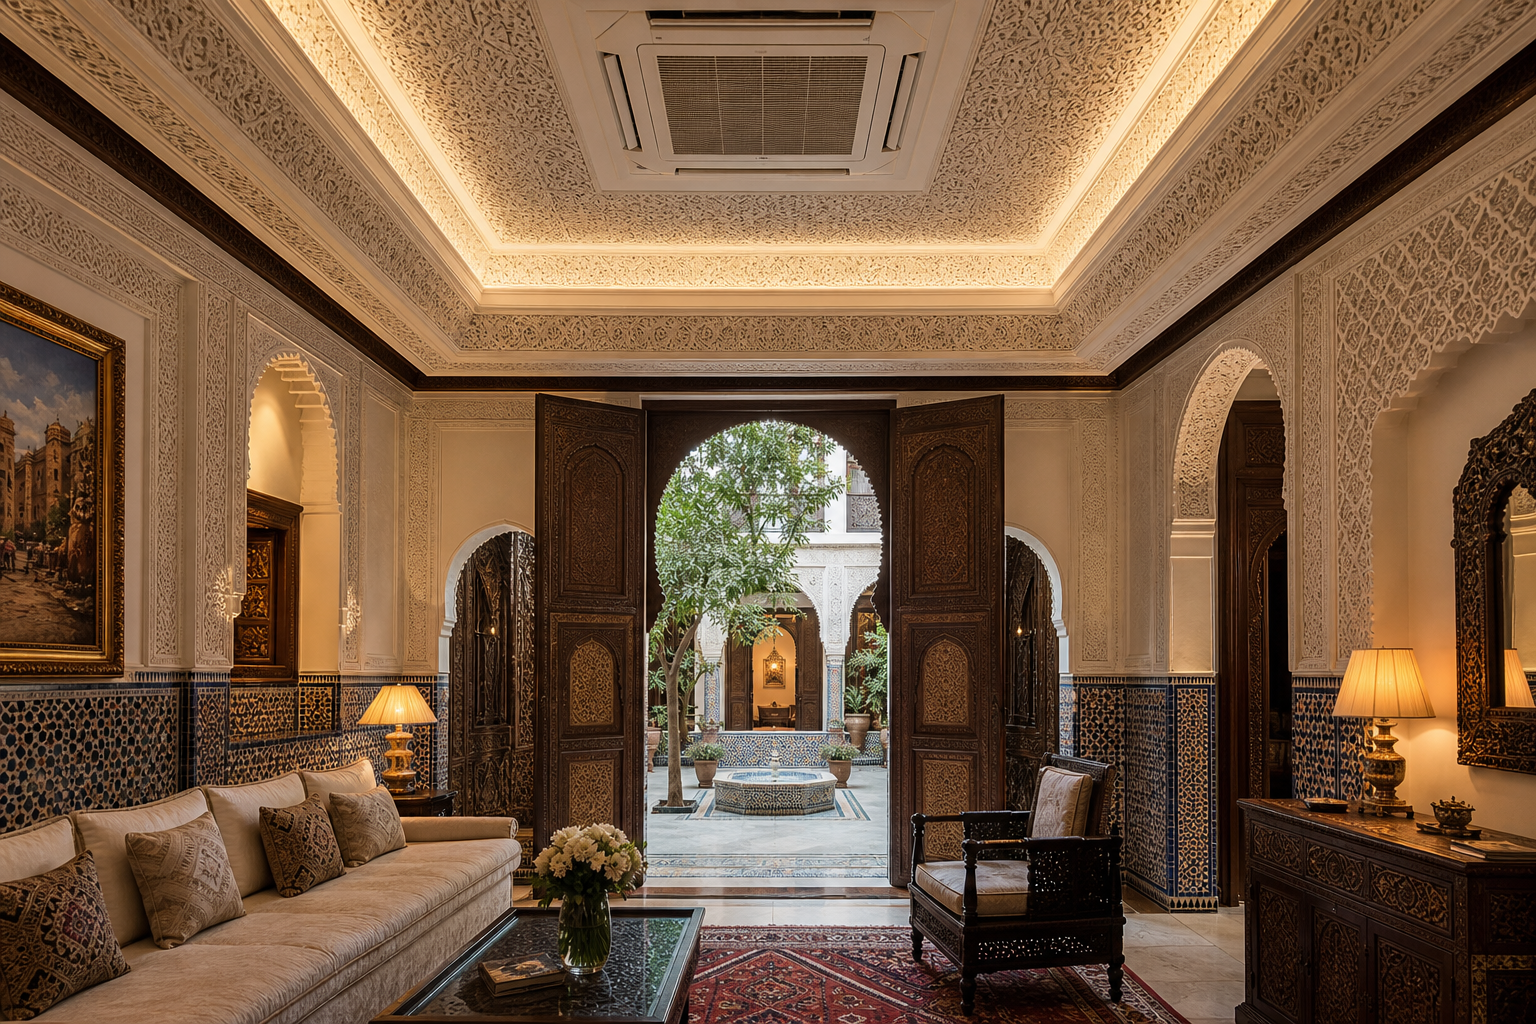
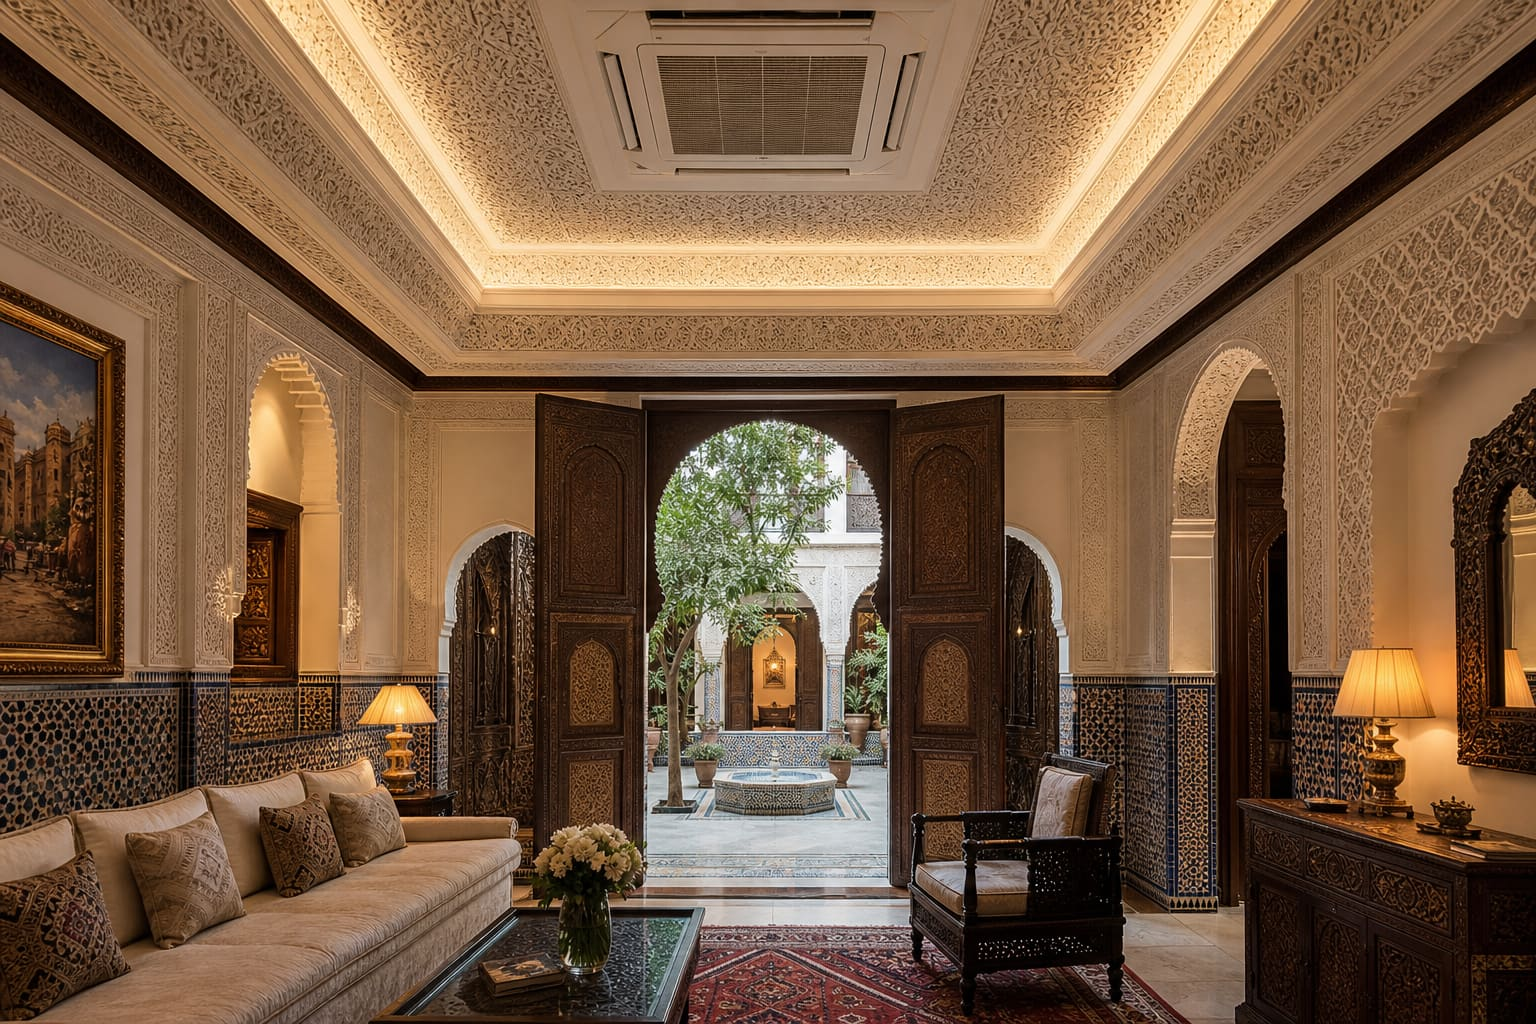
perf: optimize images, hero carousel, and defer non-critical widgets

Changed region(s): [[0.75, 0.7812, 0.7812, 0.8438], [0.1875, 0.6562, 0.2188, 0.7188], [0.9375, 0.6562, 0.9688, 0.6875]]

diff --git a/components/hero/HeroCarousel.tsx b/components/hero/HeroCarousel.tsx
@@ -1,6 +1,7 @@
 "use client";
 
 import Link from "next/link";
+import Image from "next/image";
 import { useEffect, useState, useCallback } from "react";
 import useEmblaCarousel from "embla-carousel-react";
 import Autoplay from "embla-carousel-autoplay";
@@ -31,65 +32,77 @@ export function HeroCarousel() {
     <section className="relative h-[100svh] min-h-[640px] w-full overflow-hidden bg-ink text-bone">
       <div ref={emblaRef} className="h-full overflow-hidden">
         <div className="flex h-full">
-          {heroSlides.map((slide) => (
-            <article
-              key={slide.id}
-              className="relative h-full w-full shrink-0 grow-0 basis-full"
-            >
-              <img
-                src={slide.image}
-                alt={slide.imageAlt}
-                className="absolute inset-0 h-full w-full object-cover"
-                loading="eager"
-              />
-              <div className="absolute inset-0 bg-gradient-to-b from-ink/40 via-ink/30 to-ink" />
-              <div className="absolute inset-0 bg-gradient-ink" />
+          {heroSlides.map((slide, index) => {
+            const isNear = Math.abs(index - selected) <= 1;
 
-              <div className="relative z-10 flex h-full flex-col justify-end pb-24 md:pb-32">
-                <div className="container mx-auto px-4 sm:px-6 lg:px-8">
-                  <div className="max-w-3xl">
-                    <div
-                      dir="rtl"
-                      className="mb-5 inline-flex items-center gap-2 rounded-full border border-sand-400/40 bg-ink/50 px-4 py-2 backdrop-blur"
-                    >
-                      <span className="font-arabic text-sm font-semibold text-sand-300 md:text-base">
-                        {slide.badgeAr}
-                      </span>
-                    </div>
+            return (
+              <article
+                key={slide.id}
+                className="relative h-full w-full shrink-0 grow-0 basis-full"
+              >
+                {isNear ? (
+                  <Image
+                    src={slide.image}
+                    alt={slide.imageAlt}
+                    fill
+                    priority={index === 0}
+                    loading={index === 0 ? "eager" : "lazy"}
+                    sizes="100vw"
+                    className="object-cover"
+                  />
+                ) : (
+                  <div className="absolute inset-0 bg-ink" aria-hidden />
+                )}
+                <div className="absolute inset-0 bg-gradient-to-b from-ink/40 via-ink/30 to-ink" />
+                <div className="absolute inset-0 bg-gradient-ink" />
 
-                    <h1 className="font-display text-4xl leading-[1.05] tracking-tight text-bone md:text-6xl lg:text-7xl">
-                      {slide.titleFr}
-                    </h1>
-                    <p className="mt-5 max-w-xl text-base text-bone/80 md:text-lg">
-                      {slide.subtitleFr}
-                    </p>
-                    <div className="mt-8 flex flex-wrap gap-3">
-                      <Link
-                        href={slide.ctaPrimary.href}
-                        className="inline-flex h-14 items-center rounded-full bg-brand px-7 text-sm font-semibold text-white shadow-xl shadow-brand/30 transition hover:bg-brand-600"
+                <div className="relative z-10 flex h-full flex-col justify-end pb-24 md:pb-32">
+                  <div className="container mx-auto px-4 sm:px-6 lg:px-8">
+                    <div className="max-w-3xl">
+                      <div
+                        dir="rtl"
+                        className="mb-5 inline-flex items-center gap-2 rounded-full border border-sand-400/40 bg-ink/50 px-4 py-2 backdrop-blur"
                       >
-                        {slide.ctaPrimary.label}
-                      </Link>
-                      <a
-                        href={whatsappContactUrl("expert")}
-                        target="_blank"
-                        rel="noopener noreferrer"
-                        className="inline-flex h-14 items-center gap-2 rounded-full border border-bone/30 bg-bone/5 px-7 text-sm font-semibold text-bone backdrop-blur transition hover:bg-bone/10"
-                      >
-                        <MessageCircle className="h-4 w-4" />
-                        Parler à un Expert
-                      </a>
+                        <span className="font-arabic text-sm font-semibold text-sand-300 md:text-base">
+                          {slide.badgeAr}
+                        </span>
+                      </div>
+
+                      <h1 className="font-display text-4xl leading-[1.05] tracking-tight text-bone md:text-6xl lg:text-7xl">
+                        {slide.titleFr}
+                      </h1>
+                      <p className="mt-5 max-w-xl text-base text-bone/80 md:text-lg">
+                        {slide.subtitleFr}
+                      </p>
+                      <div className="mt-8 flex flex-wrap gap-3">
+                        <Link
+                          href={slide.ctaPrimary.href}
+                          className="inline-flex h-14 items-center rounded-full bg-brand px-7 text-sm font-semibold text-white shadow-xl shadow-brand/30 transition hover:bg-brand-600"
+                        >
+                          {slide.ctaPrimary.label}
+                        </Link>
+                        <a
+                          href={whatsappContactUrl("expert")}
+                          target="_blank"
+                          rel="noopener noreferrer"
+                          className="inline-flex h-14 items-center gap-2 rounded-full border border-bone/30 bg-bone/5 px-7 text-sm font-semibold text-bone backdrop-blur transition hover:bg-bone/10"
+                        >
+                          <MessageCircle className="h-4 w-4" />
+                          Parler à un Expert
+                        </a>
+                      </div>
                     </div>
                   </div>
                 </div>
-              </div>
-            </article>
-          ))}
+              </article>
+            );
+          })}
         </div>
       </div>
 
       <div className="absolute bottom-8 left-1/2 z-20 flex -translate-x-1/2 items-center gap-3">
         <button
+          type="button"
           aria-label="Précédent"
           onClick={() => emblaApi?.scrollPrev()}
           className="inline-flex h-11 w-11 items-center justify-center rounded-full border border-bone/30 bg-ink/40 text-bone backdrop-blur hover:bg-ink/60"
@@ -100,6 +113,7 @@ export function HeroCarousel() {
           {heroSlides.map((s, i) => (
             <button
               key={s.id}
+              type="button"
               aria-label={`Aller au slide ${i + 1}`}
               onClick={() => emblaApi?.scrollTo(i)}
               className={cn(
@@ -110,6 +124,7 @@ export function HeroCarousel() {
           ))}
         </div>
         <button
+          type="button"
           aria-label="Suivant"
           onClick={() => emblaApi?.scrollNext()}
           className="inline-flex h-11 w-11 items-center justify-center rounded-full border border-bone/30 bg-ink/40 text-bone backdrop-blur hover:bg-ink/60"

diff --git a/app/page.tsx b/app/page.tsx
@@ -28,21 +28,21 @@ const categories = [
     title: "Énergie Solaire",
     eyebrow: "Tier 1 · Hybrides · Lithium",
     description: "Panneaux premium, onduleurs Huawei, batteries Pylontech.",
-    image: "https://images.unsplash.com/photo-1509391366360-2e959784a276?w=1600&q=80",
+    image: "/img/solaire/panels/panneau-tier1-hero.jpg",
     href: "/energie-solaire",
   },
   {
     title: "Piscines & Villa",
     eyebrow: "Construction · Rénovation",
     description: "Piscines à débordement, rénovation totale, délais respectés.",
-    image: "https://images.unsplash.com/photo-1572331165267-854da2b10ccc?w=1600&q=80",
+    image: "/img/products/piscine/construction/piscine-debordement.jpg",
     href: "/services/piscine",
   },
   {
     title: "Traitement d'Eau",
     eyebrow: "Adoucisseurs · Osmose · UV",
     description: "Eau pure dans toute la villa — santé et durabilité.",
-    image: "https://images.unsplash.com/photo-1559827260-dc66d52bef19?w=1600&q=80",
+    image: "/img/products/traitement-eau/adoucisseur-villa.jpg",
     href: "/services/traitement-eau",
   },
 ];
@@ -101,10 +101,12 @@ export default function HomePage() {
                 href={cat.href}
                 className="group relative aspect-[3/4] overflow-hidden rounded-3xl bg-ink"
               >
-                <img
+                <Image
                   src={cat.image}
                   alt={cat.title}
-                  className="absolute inset-0 h-full w-full object-cover transition duration-700 group-hover:scale-110"
+                  fill
+                  sizes="(max-width: 640px) 100vw, (max-width: 1024px) 50vw, 25vw"
+                  className="object-cover transition duration-700 group-hover:scale-110"
                   loading="lazy"
                 />
                 <div className="absolute inset-0 bg-gradient-to-b from-transparent via-ink/30 to-ink/95" />

diff --git a/app/layout.tsx b/app/layout.tsx
@@ -4,15 +4,12 @@ import "./globals.css";
 import { Header } from "@/components/layout/Header";
 import { Footer } from "@/components/layout/Footer";
 import { FloatingWhatsApp } from "@/components/layout/FloatingWhatsApp";
-import { CookieBanner } from "@/components/layout/CookieBanner";
 import { CartDrawer } from "@/components/cart/CartDrawer";
 import { JsonLd } from "@/components/seo/JsonLd";
 import { buildMetadata, localBusinessJsonLd } from "@/lib/seo";
 import { BackButtonWrapper } from "@/components/ui/BackButtonWrapper";
-import { StickyMobileCTA } from "@/components/cro/StickyMobileCTA";
-import { ExitIntent } from "@/components/cro/ExitIntent";
-import { SocialProofLive } from "@/components/cro/SocialProofLive";
 import { Analytics } from "@/components/analytics/Analytics";
+import { DeferredLayoutWidgets } from "@/components/layout/DeferredLayoutWidgets";
 
 const display = Cormorant_Garamond({
   subsets: ["latin"],
@@ -61,11 +58,8 @@ export default function RootLayout({
         <main>{children}</main>
         <Footer />
         <FloatingWhatsApp />
-        <StickyMobileCTA />
-        <SocialProofLive />
-        <ExitIntent />
+        <DeferredLayoutWidgets />
         <CartDrawer />
-        <CookieBanner />
         <Analytics />
       </body>
     </html>

diff --git a/content/heroSlides.ts b/content/heroSlides.ts
@@ -14,7 +14,7 @@ export const heroSlides: HeroSlide[] = [
   {
     id: "hvac",
     image:
-      "https://images.unsplash.com/photo-1600566753190-17f0baa2a6c3?w=2400&q=85&auto=format&fit=crop",
+      "https://images.unsplash.com/photo-1600566753190-17f0baa2a6c3?w=1400&q=75&auto=format&fit=crop",
     imageAlt: "Salon de villa contemporaine équipée d'une climatisation LG ARTCOOL",
     badgeAr: "أفضل العروض",
     badgeArTransliteration: "Meilleures offres",
@@ -39,7 +39,7 @@ export const heroSlides: HeroSlide[] = [
   {
     id: "solaire",
     image:
-      "https://images.unsplash.com/photo-1509391366360-2e959784a276?w=2400&q=85&auto=format&fit=crop",
+      "https://images.unsplash.com/photo-1509391366360-2e959784a276?w=1400&q=75&auto=format&fit=crop",
     imageAlt: "Toiture villa avec panneaux solaires premium et onduleur Huawei",
     badgeAr: "شحن سريع · ضمان ٢٥ سنة",
     badgeArTransliteration: "Livraison rapide · Garantie 25 ans",

diff --git a/components/layout/DeferredLayoutWidgets.tsx b/components/layout/DeferredLayoutWidgets.tsx
@@ -1,0 +1,37 @@
+"use client";
+
+import dynamic from "next/dynamic";
+
+const StickyMobileCTA = dynamic(
+  () =>
+    import("@/components/cro/StickyMobileCTA").then((m) => m.StickyMobileCTA),
+  { ssr: false },
+);
+
+const ExitIntent = dynamic(
+  () => import("@/components/cro/ExitIntent").then((m) => m.ExitIntent),
+  { ssr: false },
+);
+
+const SocialProofLive = dynamic(
+  () =>
+    import("@/components/cro/SocialProofLive").then((m) => m.SocialProofLive),
+  { ssr: false },
+);
+
+const CookieBanner = dynamic(
+  () =>
+    import("@/components/layout/CookieBanner").then((m) => m.CookieBanner),
+  { ssr: false },
+);
+
+export function DeferredLayoutWidgets() {
+  return (
+    <>
+      <StickyMobileCTA />
+      <SocialProofLive />
+      <ExitIntent />
+      <CookieBanner />
+    </>
+  );
+}
